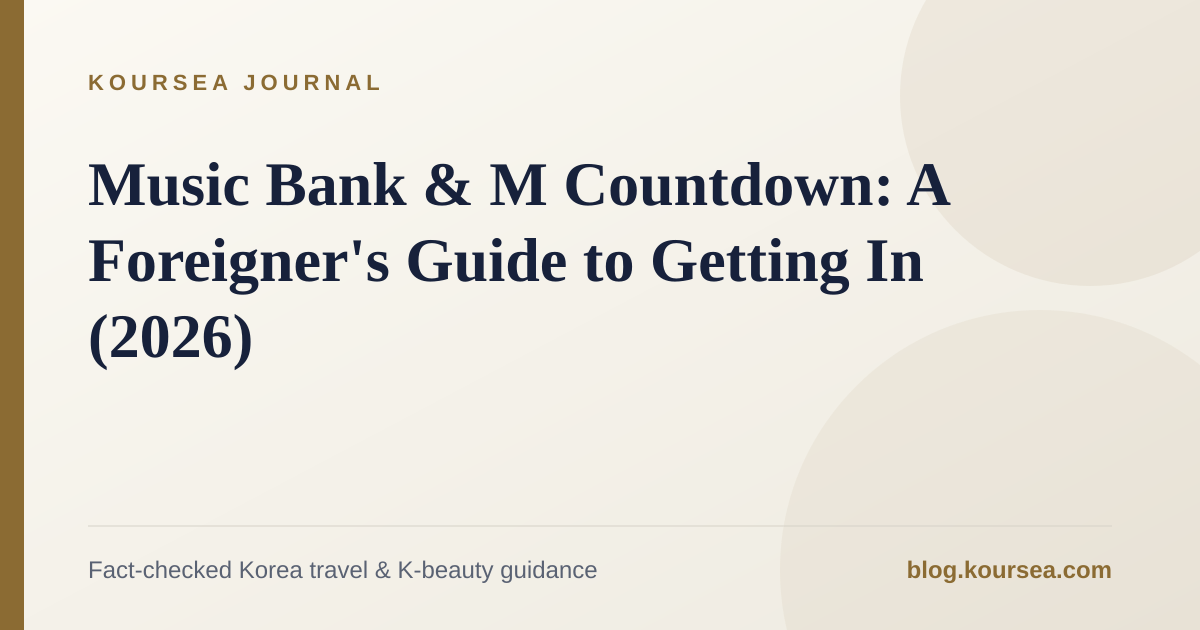
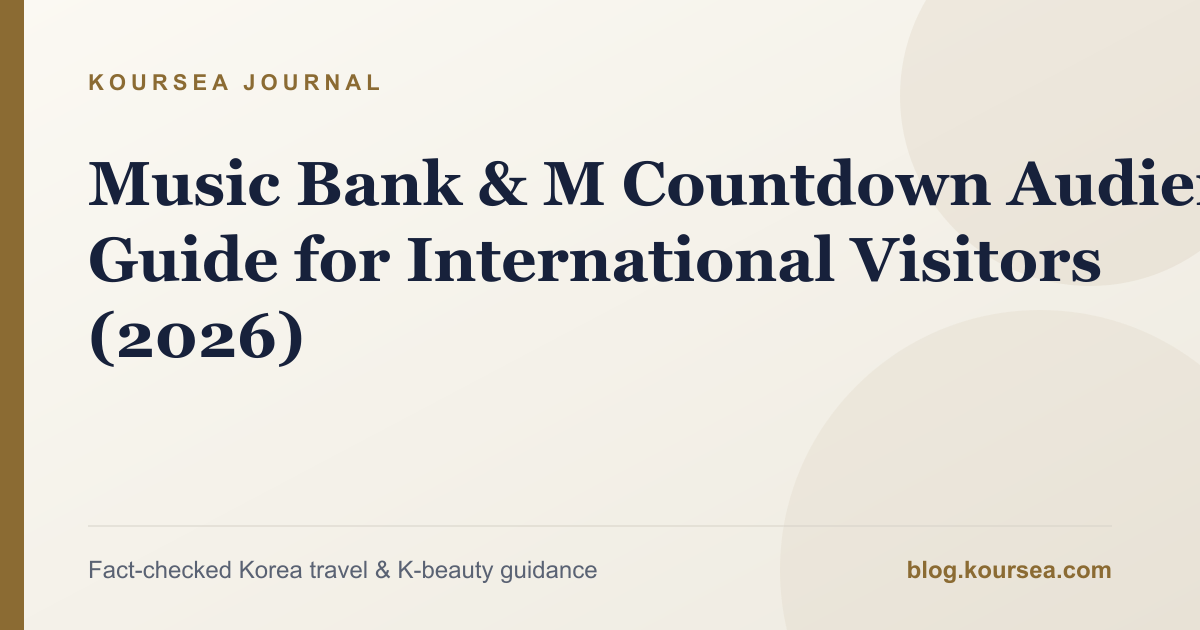
[Claude Editorial] Add official sources and internal links to Music Bank / M Countdown guide (#112)
* content: cite official sources and add internal links to Music Bank/M Countdown guide

The guide on KBS Music Bank and Mnet M Countdown foreigner access had no
inline source citations and no internal links to related Koursea ticketing
or transit guides. Add a quick-comparison table, cite CJ ENM's own newsroom
for the Mnet Plus app's role in M Countdown voting, soften an unverifiable
Trazy listing claim, flag an unconfirmed "M Countdown foreigner ticket"
rumor as unverified rather than repeating it as fact, link to Koursea's
K-pop ticketing and Seoul transit card guides, and add a dated
Sources-and-Verification section that discloses what could and could not
be checked against an official page in this session.

Claude-Session: https://claude.ai/code/session_016wJQfJdigc7spdJqcPYteE

* Correct music show audience guidance

---------

diff --git a/src/content/posts/guide-music-bank-mcountdown-foreigner-tickets.md b/src/content/posts/guide-music-bank-mcountdown-foreigner-tickets.md
@@ -1,8 +1,8 @@
 ---
-title: "Music Bank & M Countdown: A Foreigner's Guide to Getting In (2026)"
-description: "Compare KBS Music Bank's free foreigner SSO lottery with M Countdown's artist-led, tiered audience process for international K-pop fans."
+title: "Music Bank & M Countdown Audience Guide for International Visitors (2026)"
+description: "Compare KBS Music Bank's official audience-application page with the artist-specific Mnet Plus notices used for M Countdown."
 pubDate: 2026-09-09
-updatedDate: 2026-09-09
+updatedDate: 2026-10-23
 category: "travel"
 tags: ["music bank tickets", "m countdown tickets", "kbs music bank foreigner", "mcountdown audience", "kpop music shows"]
 canonicalUrl: "https://blog.koursea.com/posts/guide-music-bank-mcountdown-foreigner-tickets/"
@@ -10,83 +10,89 @@ author: "Koursea Editorial"
 
 faq:
   - question: "How can an overseas visitor apply for Music Bank?"
-    answer: "Create a KBS SSO account under the Foreigner Living Abroad category, submit the passport verification requested, and apply for the episode through Audience Application; it is free and lottery-based, not a seat guarantee."
+    answer: "Check the current Music Bank episode on KBS's official audience-application page, sign in with a KBS account and follow that episode's eligibility and identity-check instructions. KBS does not present the page as a guaranteed foreigner ticket."
   - question: "Where is Music Bank held?"
     answer: "The guide lists KBS New Wing Open Hall at 13 Yeouigongwon-ro, with National Assembly Station on Line 9, Exit 4 as the nearest station."
   - question: "How does M Countdown access differ?"
-    answer: "M Countdown does not have a confirmed KBS-style foreigner SSO lottery; access is announced through each artist's official channel and is commonly tiered by fanclub, album proof, then passport-only walk-up space."
+    answer: "Recent official Mnet Plus notices are artist-specific and may require advance selection, fanclub membership and release-specific proof. Requirements must be checked notice by notice."
   - question: "Is there a guaranteed paid M Countdown package?"
-    answer: "The guide says no confirmed guaranteed-seat paid package was found on Klook or Trazy for M Countdown, unlike the paid option it documents for Music Bank."
+    answer: "The official Mnet Plus and CJ ENM sources checked for this update do not present a general guaranteed-seat product. Do not rely on an old reseller screenshot without a live booking page for your date."
 ---
 
 ## Music Bank and M Countdown Use Different Entry Systems
 
-Music Bank and M Countdown are both weekly K-pop broadcasts, but a foreign visitor cannot approach them the same way. KBS Music Bank has an official overseas-user registration and lottery route. M Countdown generally directs fans through each performing artist's official notice and a tiered on-site process instead.
+Music Bank and M Countdown are both weekly K-pop broadcasts, but their public audience routes are not the same. KBS maintains an official Music Bank audience-application page. Recent M Countdown participation notices are published for individual artists and episodes through official artist channels, including Mnet Plus.
 
-For the separate Inkigayo, The Show and full fanclub pre-recording breakdown, read Koursea's [Inkigayo and The Show foreigner ticket guide](/posts/guide-kpop-music-show-foreigner-tickets-inkigayo-theshow/).
+For the separate Inkigayo, The Show and full fanclub pre-recording breakdown, read Koursea's [Inkigayo and The Show foreigner ticket guide](/posts/guide-kpop-music-show-foreigner-tickets-inkigayo-theshow/). For broader ticketing-platform mechanics (NOL World, Melon Ticket, payment issues foreign cards hit), see Koursea's [K-pop concert ticketing guide for Seoul](/posts/kpop-concert-ticketing-seoul-2026/).
 
-## KBS Music Bank: The Official Foreigner Lottery Route
+## Quick Comparison
+
+| | KBS Music Bank | Mnet M Countdown |
+| --- | --- | --- |
+| Venue | KBS New Wing Open Hall, Yeongdeungpo-gu | CJ ENM Center, Sangam-dong |
+| Nearest station | National Assembly Station (Line 9, Exit 4) | Digital Media City area, Sangam-dong |
+| Broadcast day | Friday | Thursday |
+| Public application route | [KBS audience-application page](https://kbsticket.kbs.co.kr/requestnew/list.do?m_seq=9) | Artist- and episode-specific official notice |
+| What to verify | Episode eligibility, application window and accepted ID | Selection status, membership, purchase proof, ID and check-in time |
+| Guaranteed admission | No; follow the result shown by KBS | No; even selected applicants can face capacity or document checks |
+
+This table is a starting point, not a substitute for the live notice or booking page for your target date — both shows change entry rules by episode and by artist.
+
+## KBS Music Bank: Start With the Official KBS Page
 
 ### Venue and Schedule
 
 - **Broadcaster:** KBS
-- **Venue:** KBS New Wing Open Hall (KBS 신관 공개홀), 13 Yeouigongwon-ro, Yeongdeungpo-gu, Seoul
+- **Venue:** [KBS New Wing Open Hall](https://about.kbs.co.kr/index.html?sname=kbs&stype=location) (KBS 신관 공개홀), 13 Yeouigongwon-ro, Yeongdeungpo-gu, Seoul
 - **Nearest station:** National Assembly Station, Seoul Subway Line 9, Exit 4
-- **Live broadcast:** Friday at 5:05 PM KST
-- **Pre-recording:** Usually earlier on the same day, around 11:00 AM
+- **Current episode details:** Use the [official Music Bank audience list](https://kbsticket.kbs.co.kr/requestnew/list.do?m_seq=9); dates, times, venue and age rating are shown per episode
 
 The live audience lottery and an artist's fanclub pre-recording are different routes. Check which session your notice covers before arranging transport.
 
-### How an Overseas Visitor Applies
+### How to Check Whether You Can Apply
 
-1. Register a KBS SSO account under the **Foreigner Living Abroad** category.
-2. Submit the requested passport copy for identity verification.
-3. After approval, log in and open the **Audience Application** (시청자 참여 / 방청 신청) menu.
-4. Select the relevant Music Bank episode and submit the free lottery application.
-5. If selected, bring the **physical passport** that matches the account for the door check.
+1. Open the [Music Bank audience list](https://kbsticket.kbs.co.kr/requestnew/list.do?m_seq=9) and select the episode you actually plan to attend.
+2. Sign in with a KBS account. KBS's [general audience guide](https://kbsticket.kbs.co.kr/mobile/attend/totalGuide.do) says applications are limited to KBS members.
+3. Read that episode's age, application, winner-announcement and identity-check instructions before submitting.
+4. Enter the contact details requested by KBS and keep the confirmation available.
+5. If selected, bring the exact identification required by the episode notice. Do not assume a passport alone will satisfy every notice.
 
-This is a free lottery, not a guaranteed reservation. Applications for a Friday broadcast are commonly reported to open on the preceding Thursday and close before the show, but the window can vary by episode. Confirm the exact application period on KBS for your target date.
+The official pages checked on October 23, 2026 do **not** describe a separate, guaranteed foreigner-only route. International visitors should therefore test account eligibility early and rely on the live episode page rather than copied application schedules.
 
 ### Fanclub Pre-Recording Is a Separate Route
 
-Music Bank also hosts artist-specific pre-recordings. These use the same strict fanclub process described in the [sa-nok requirements section of the Inkigayo and The Show guide](/posts/guide-kpop-music-show-foreigner-tickets-inkigayo-theshow/#mastering-the-weverse-sa-nok-requirements-zero-tolerance-rules): the passport name must match, the notice may require an official lightstick and comeback-specific proof, and applications can fill almost immediately after opening.
+Music Bank can also have artist-specific pre-recordings. Those are separate from KBS's general audience page. Use the artist's current official notice and compare every required item with the [sa-nok preparation checklist](/posts/guide-kpop-music-show-foreigner-tickets-inkigayo-theshow/#mastering-the-weverse-sa-nok-requirements-zero-tolerance-rules).
 
 ### Is There a Paid Option?
 
-Trazy lists a KBS Music Bank ticket or tour product for international visitors. Availability and pricing change, so check the current Trazy listing rather than relying on an old quoted price. Klook may also be worth checking for current availability, but a listing should not be assumed to exist for every episode.
+Tour products can appear and disappear. Only treat one as usable when its live booking page names the program, date, inclusions, cancellation terms and identity requirements. An old search result or screenshot is not proof that seats remain available.
 
-## Mnet M Countdown: Artist Notices and Tiered Entry
+## Mnet M Countdown: Artist-Specific Notices
 
 ### Venue and Schedule
 
 - **Broadcaster:** Mnet, operated by CJ ENM
 - **Venue:** CJ ENM Center in Sangam-dong, Seoul
-- **Broadcast:** Thursday evening
+- **Broadcast:** Mnet Plus currently lists M Countdown on Thursday; confirm the episode in the app before traveling
 - **Call and recording times:** Set by each week's notice
 
 M Countdown is filmed at the **CJ ENM Center**, not KBS New Wing Open Hall. The KBS venue belongs to Music Bank. Do not use fan pages that mix the two locations.
 
-One recent 2026 notice listed an identity check around 7:30 PM and recording around 8:30 PM KST, but that is an example rather than a permanent schedule. Always use the official notice for the episode you want to attend.
+A current official notice can set a check-in time hours apart from another week's notice. Always use the notice for the artist and episode you want to attend.
 
 ### How Foreign Fans Apply
 
-M Countdown does not have a confirmed KBS-style foreigner SSO lottery. Access is generally announced through the performing artist's official channel, such as a Weverse notice, official fan cafe or the Mnet Plus **surveys** application page.
+M Countdown does not publish a KBS-style general audience page in the official sources checked for this update. Start with the performing artist's official notice. For example, an [October 8, 2026 Mnet Plus notice](https://artist.mnetplus.world/main/stg/flareu/surveys/6ac46b02e6af4f7feb43270d) required advance selection, official membership and release-specific purchase proof, and explicitly said there would be no on-site participation. That is evidence for that event only, not a permanent rule for every artist.
 
-At the venue, entry is commonly handled in tiers, subject to capacity:
-
-1. Official fanclub members
-2. Fans carrying the required album-purchase proof
-3. Passport-only walk-ups
-
-A physical passport is required at the door regardless of tier. Being present in a lower tier does not guarantee admission when space runs out.
+Mnet Plus is also used for M Countdown voting and related content, as described by [CJ ENM's newsroom](https://newsroom.cj.net/?p=9218), but that does not turn every Mnet Plus account into an audience ticket. Never travel to the studio expecting a passport-only walk-up unless the current official notice expressly permits it.
 
 ### Is There a Guaranteed Paid Package?
 
-No confirmed guaranteed-seat M Countdown package was found on Klook or Trazy during this research. That makes M Countdown less predictable for a short trip than Music Bank's paid listing or The Show's foreigner-facing packages. Do not treat an unofficial reseller page as confirmation of entry.
+The official Mnet Plus and CJ ENM sources checked on October 23, 2026 do not present a general guaranteed-seat M Countdown product. A reseller offer should be treated as date-specific and unverified until its live page clearly identifies the episode and admission terms. For a separate program with different rules, see the [Inkigayo and The Show guide](/posts/guide-kpop-music-show-foreigner-tickets-inkigayo-theshow/).
 
 ## Studio Etiquette for Either Show
 
-- Bring the physical passport connected to your application or fanclub record.
+- Bring the exact original identification named in the current notice.
 - Follow the week's official notice and staff instructions at the venue.
 - Keep phones and cameras put away when recording is prohibited.
 - Use the restroom and finish food or drinks before entering the studio.
@@ -95,5 +101,11 @@ No confirmed guaranteed-seat M Countdown package was found on Klook or Trazy dur
 ## Getting to the Correct Studio
 
 Music Bank and M Countdown are not filmed in the same building. Before leaving, search the venue on [Koursea's Korea place lookup](https://www.koursea.com/) and use its Korean address card when showing the destination to a taxi driver. For Music Bank, use **KBS 신관 공개홀**. For M Countdown, use **CJ ENM Center in Sangam-dong**.
+
+If you are taking the subway instead of a taxi, load your T-money balance before you go — see Koursea's [Seoul transit card guide](/posts/seoul-subway-transit-card-guide/) for T-money vs. Climate Card, since a stalled top-up is the last thing you want with a fixed application or recording time.
+
+## Sources and Verification Date
+
+Checked 2026-10-23 against the [KBS Music Bank audience list](https://kbsticket.kbs.co.kr/requestnew/list.do?m_seq=9), [KBS general audience guide](https://kbsticket.kbs.co.kr/mobile/attend/totalGuide.do), [KBS directions page](https://about.kbs.co.kr/index.html?sname=kbs&stype=location), [Mnet Plus](https://mnetplus.world/en), an [official artist participation notice on Mnet Plus](https://artist.mnetplus.world/main/stg/flareu/surveys/6ac46b02e6af4f7feb43270d), and [CJ ENM's Mnet Plus newsroom update](https://newsroom.cj.net/?p=9218). Rules can change by episode and artist, so the live notice always takes priority.
 
 ---
